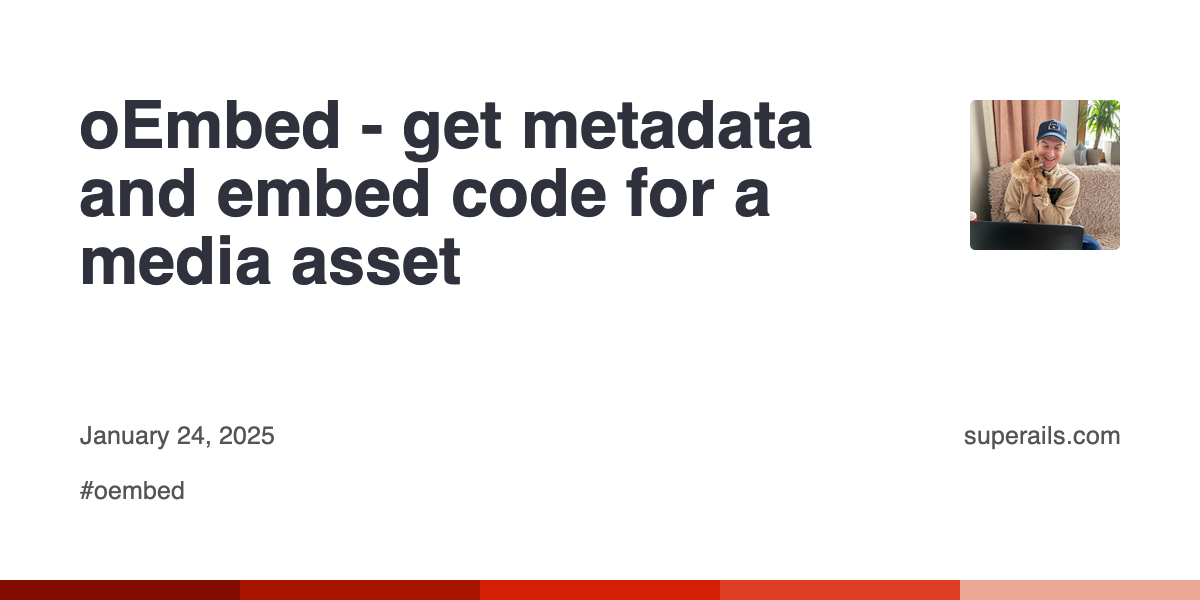
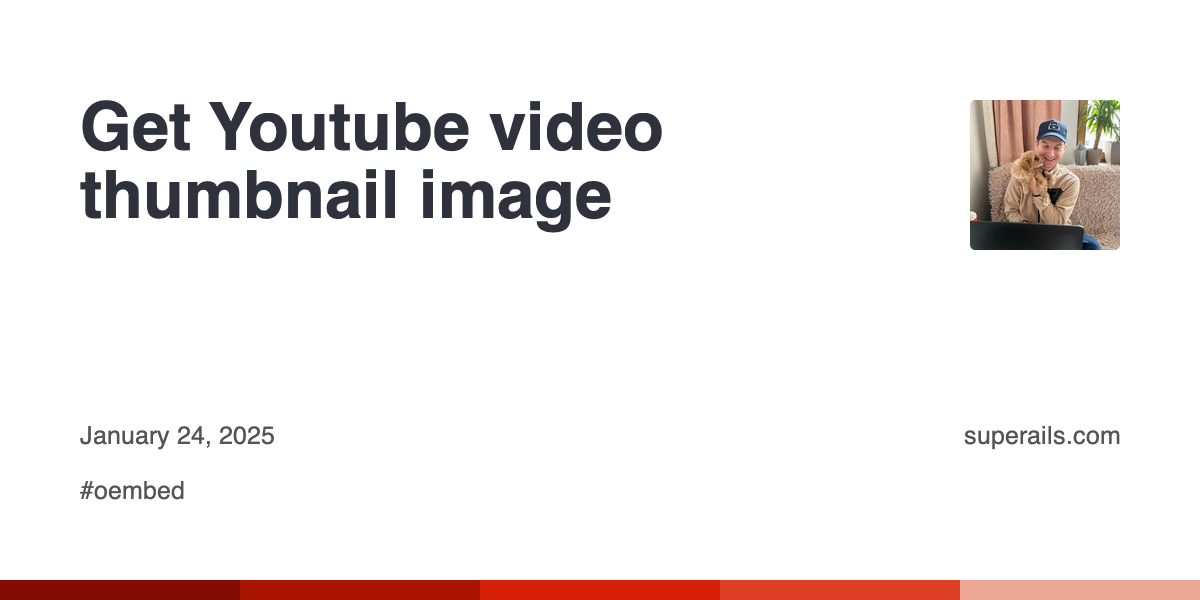
oembed works ok

Changed region(s): [[0.0617, 0.15, 0.6783, 0.48]]

diff --git a/_posts/2025-01-24-oembed.md b/_posts/2025-01-24-oembed.md
@@ -1,38 +1,61 @@
 ---
 layout: post
-title: "oEmbed - get metadata and embed code for a media asset"
+title: "Get Youtube video thumbnail image"
 tags: oembed
 ---
 
+### Paste Youtube, Vimeo or Wistia video url to get the thumbnail image and oembed data
+
+<div id="video-preview-container">
+  <div>
+    <input 
+      type="text" 
+      value="https://www.youtube.com/watch?v=TcGXLorlXwQ"
+      class="video-input" 
+      placeholder="Enter video URL (YouTube, Vimeo, or Wistia)"
+    >
+    <button onclick="videoPreview.fetchThumbnail()">
+      Get oEmbed
+    </button>
+  </div>
+  <div class="video-thumbnail-output"></div>
+  <br>
+  <pre class="video-data-output"></pre>
+</div>
+
+### How it works
+
 I often google "get youtube video thumbnail".
 
-[Oembed](https://oembed.com/) playground
+[Oembed](https://oembed.com/) let's you get metadata and embed code for a media asset.
+
+If a web page has `<link rel="alternate" type="application/json+oembed" href="...">`, it means that the page supports oembed. The href is the oembed url. The first part of the url is the oembed API endpoint.
+
+For example
 
 ```html
-<link rel="alternate" type="application/json+oembed" href="https://www.youtube.com/oembed?format=json&amp;url=https%3A%2F%2Fwww.youtube.com%2Fwatch%3Fv%3Do0yf1cX76to" title="Adding Full Text Search to Rails Directory - Part 10">
-
-https://www.youtube.com/oembed?format=json&url=https%3A%2F%2Fwww.youtube.com%2Fwatch%3Fv%3Do0yf1cX76to
-
-https://oembed.com/
-
-Link: <http://flickr.com/services/oembed?url=http%3A%2F%2Fflickr.com%2Fphotos%2Fbees%2F2362225867%2F&format=json>; rel="alternate"; type="application/json+oembed"; title="Bacon Lollys oEmbed Profile"
+<link rel="alternate" type="application/json+oembed" href="https://www.youtube.com/oembed?format=json&url=https://www.youtube.com/watch?v=vS-F1PlLyTk" title="Typesense search with Ruby on Rails #225">
 ```
 
-add an input field that would allow you to enter a url and then display the oembed html.
+means that the **Youtube** API endpoint is
 
-to get the oembed url, you need to make a request to url and find the link tag with rel="alternate" and type="application/json+oembed"
+```
+https://www.youtube.com/oembed?format=json&url=
+```
 
-if the url is not supported, display an error message
+**Vimeo**
 
-if the url is supported, display the oembed json under the input field
+```
+https://vimeo.com/api/oembed.json?url=
+```
 
-make it work for
+**Wistia**
 
-https://www.youtube.com/oembed?url=
-
-`https://vimeo.com/api/oembed.json?url=
-
+```
 https://fast.wistia.com/oembed?url=
+```
+
+At the end of the API endpoint append the url to the video to get the oembed data.
 
 <script>
 class VideoThumbnailPreview {
@@ -66,7 +89,7 @@ class VideoThumbnailPreview {
       const data = await this.fetchOembedData(url, videoProvider);
       if (data) {
         this.thumbnailOutput.innerHTML = `<img src="${data.thumbnail_url}" alt="Video thumbnail">`;
-        this.dataOutput.innerHTML = JSON.stringify(data, null, 2);
+        this.dataOutput.textContent = JSON.stringify(data, null, 2);
       } else {
         this.clearOutput();
       }
@@ -110,19 +133,3 @@ document.addEventListener('DOMContentLoaded', () => {
   window.videoPreview = new VideoThumbnailPreview(container);
 });
 </script>
-
-<div id="video-preview-container">
-  <div>
-    <input 
-      type="text" 
-      value="https://www.youtube.com/watch?v=TcGXLorlXwQ"
-      class="video-input" 
-      placeholder="Enter video URL (YouTube, Vimeo, or Wistia)"
-    >
-    <button onclick="videoPreview.fetchThumbnail()">
-      Get oEmbed
-    </button>
-  </div>
-  <div class="video-thumbnail-output"></div>
-  <div class="video-data-output"></div>
-</div>
